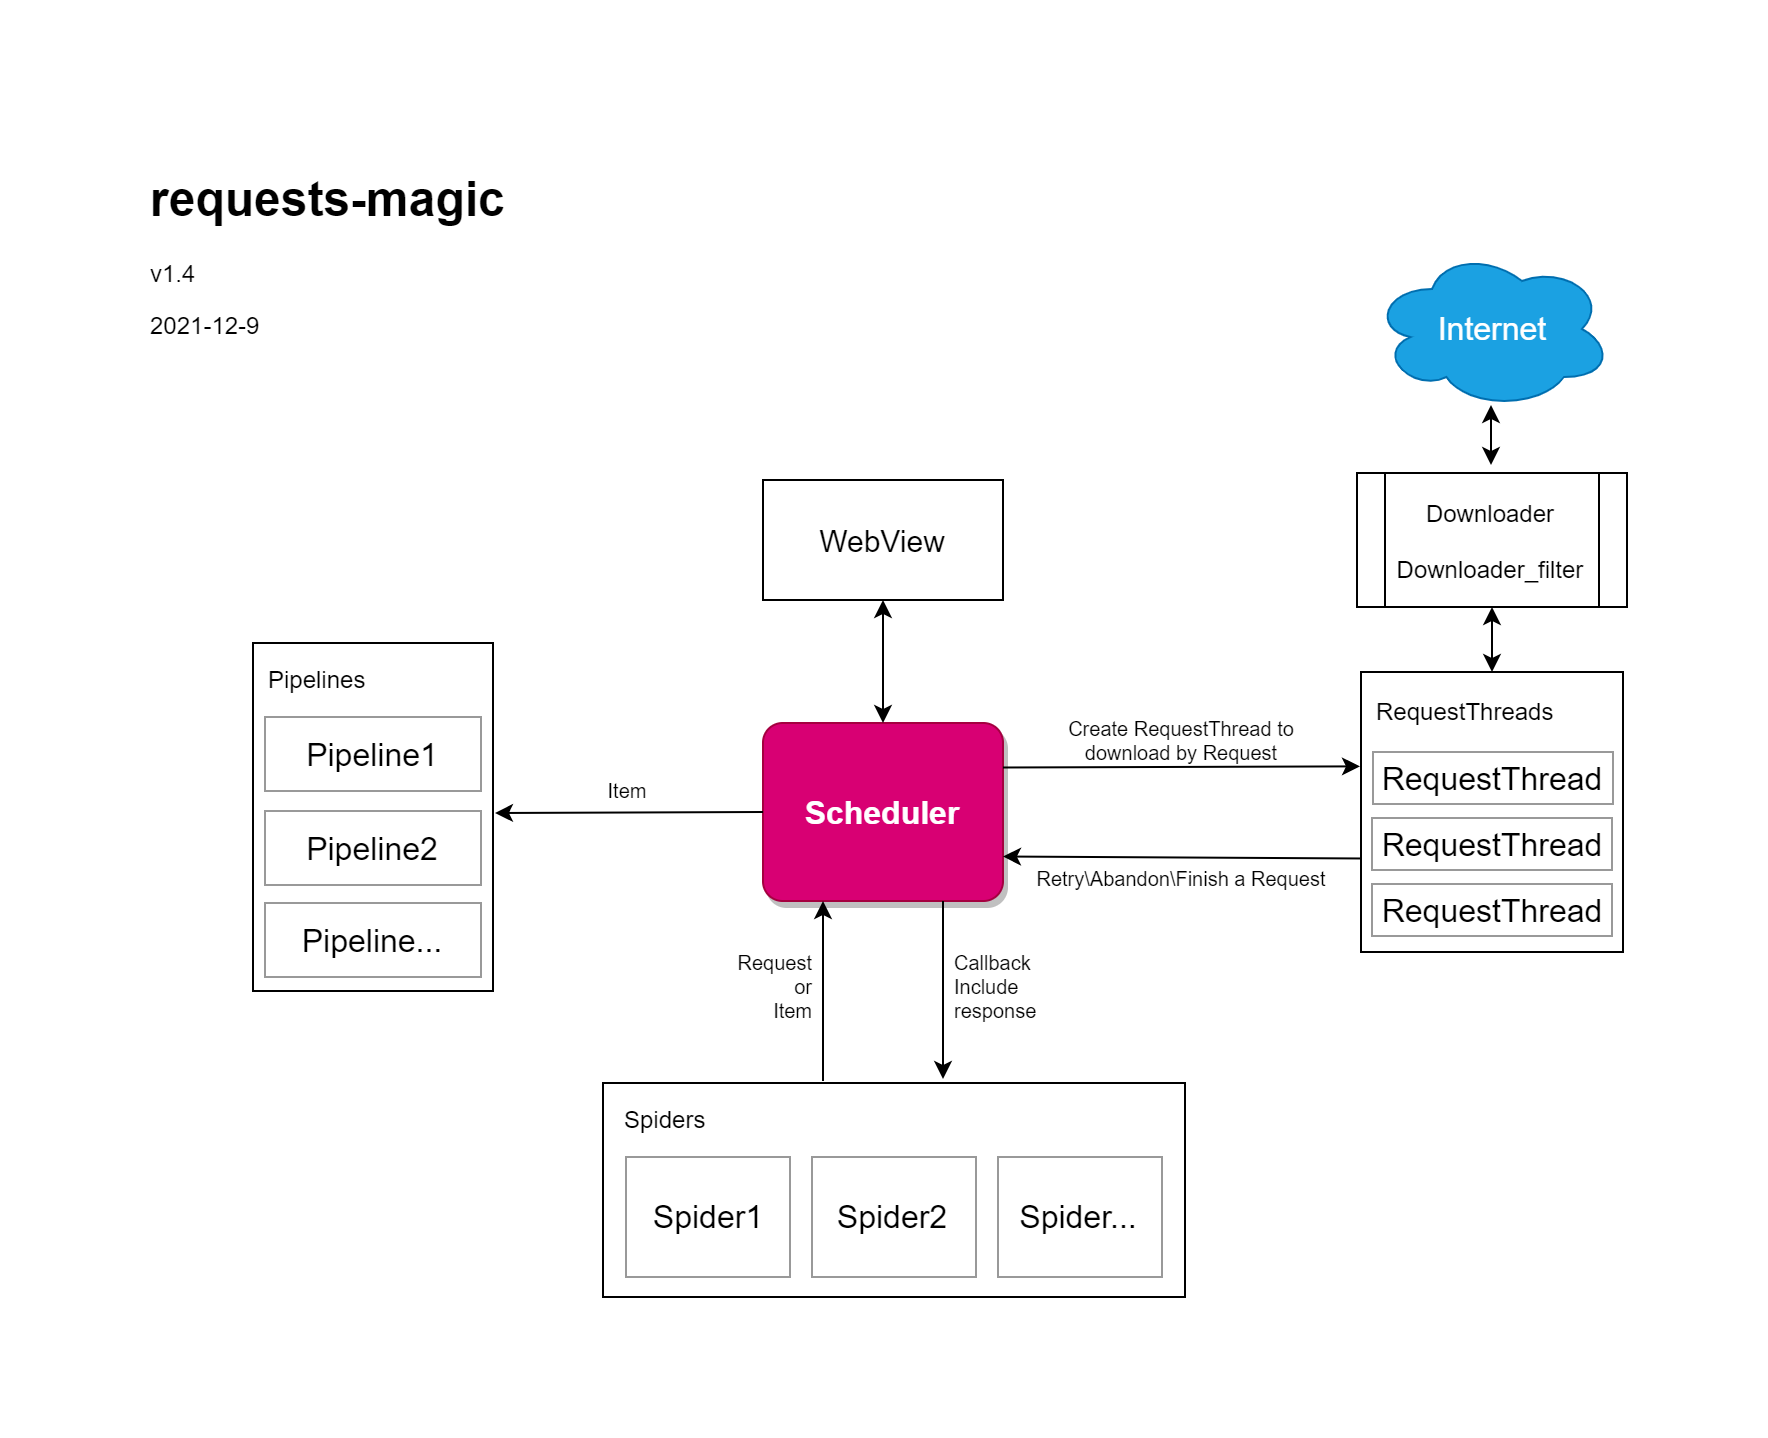
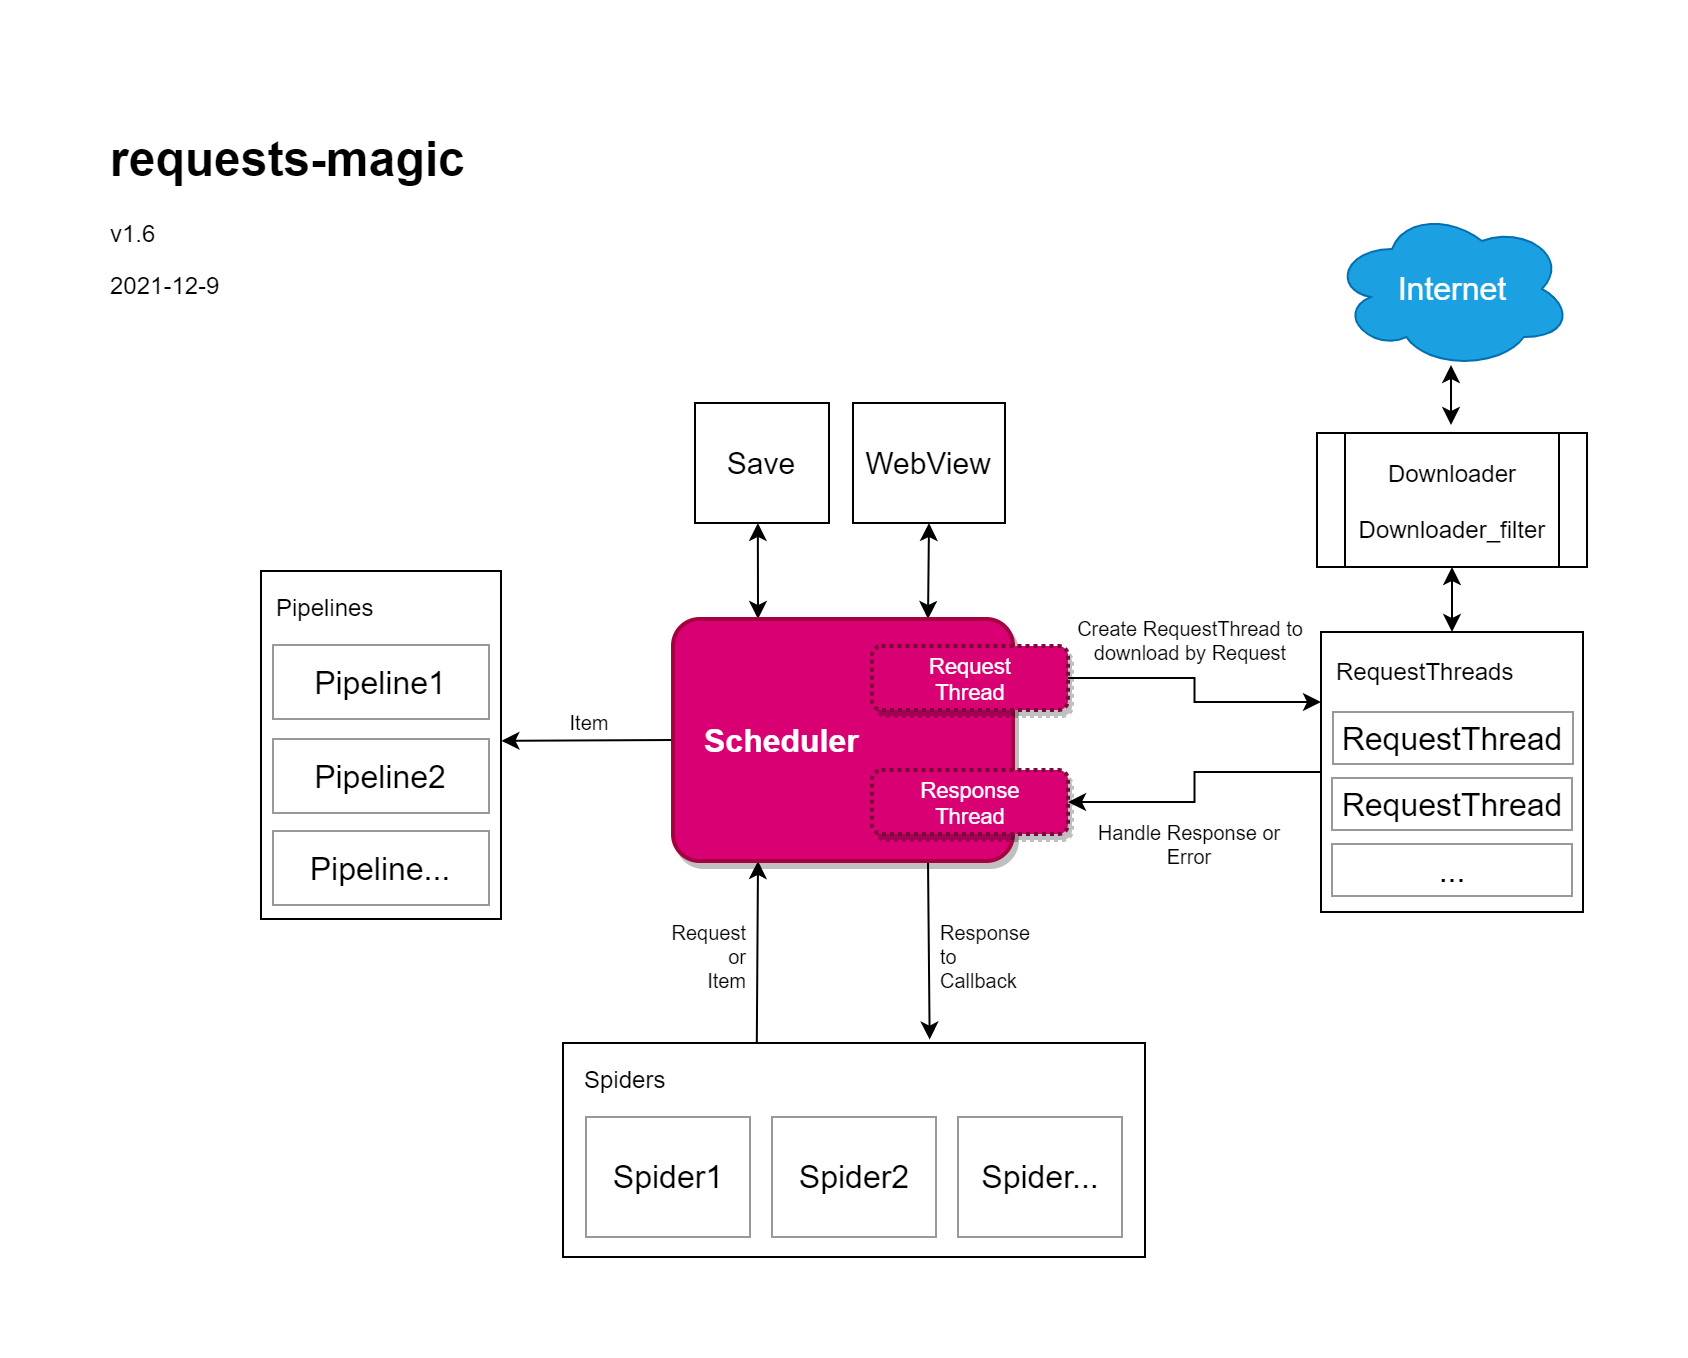
v1.6-beta-f1  独立params参数

Changed region(s): [[0.3389, 0.1546, 0.9242, 0.9278], [0.1232, 0.433, 0.3081, 0.6804], [0.0616, 0.0928, 0.2773, 0.2474]]

diff --git a/requests_magic/request.py b/requests_magic/request.py
@@ -21,6 +21,7 @@ class Request:
         'url',
         'method',
         'data',
+        'params'
         'tags',
         'headers',
         'time_out',
@@ -30,7 +31,7 @@ class Request:
     )
 
     def __init__(self, url: str, callback: Callable[[Any, 'Request'], NoReturn],
-                 data: dict = None, method: str = 'GET', headers: dict = None,
+                 data: dict = None, params: dict = None, method: str = 'GET', headers: dict = None,
                  time_out: int = 10, time_out_wait: int = 15, time_out_retry: int = 3,
                  tags: dict = None, wait: float = 0,
                  downloader: Callable[['Request'], NoReturn] = requests_downloader,
@@ -44,6 +45,7 @@ class Request:
             url: 请求的目标地址
             callback: 回调解析函数，这必须是爬虫类中的方法
             data: 请求数据
+            params: 请求查询数据
             method: 请求方法，默认：GET
             headers: 请求头，如果为空，则从 requests_magic.request.default_headers copy一份
             time_out: 超时时限，默认：10秒
@@ -64,12 +66,15 @@ class Request:
             tags = {}
         if data is None:
             data = {}
+        if params is None:
+            params = {}
         if headers is None:
             headers = callback.__self__.default_headers.copy()
 
         # http
         self.url: str = url
         self.data: dict = data
+        self.params: dict = params
         self.method: str = method
         self.headers: dict = headers
 

diff --git a/requests_magic/utils.py b/requests_magic/utils.py
@@ -4,9 +4,10 @@ import importlib
 import threading
 import time
 from typing import Callable, NoReturn
+from .request import Request
 
 
-def request_to_requests_kwargs(request) -> dict:
+def request_to_requests_kwargs(request: "Request") -> dict:
     """根据 Request 生成 requests.request 会用到的参数字典
 
     Args:
@@ -17,17 +18,15 @@ def request_to_requests_kwargs(request) -> dict:
     result: dict = {
         'method': request.method,
         'url': request.url,
-        'timeout': request.time_out
+        'timeout': request.time_out,
+        'params': request.params
     }
 
     if request.data:
-        if request.method == 'GET':
-            result['params'] = request.data
+        if isinstance(request.data, dict):
+            result['json'] = request.data
         else:
-            if isinstance(request.data, dict):
-                result['json'] = request.data
-            else:
-                result['data'] = request.data
+            result['data'] = request.data
 
     if request.headers:
         result['headers'] = request.headers
